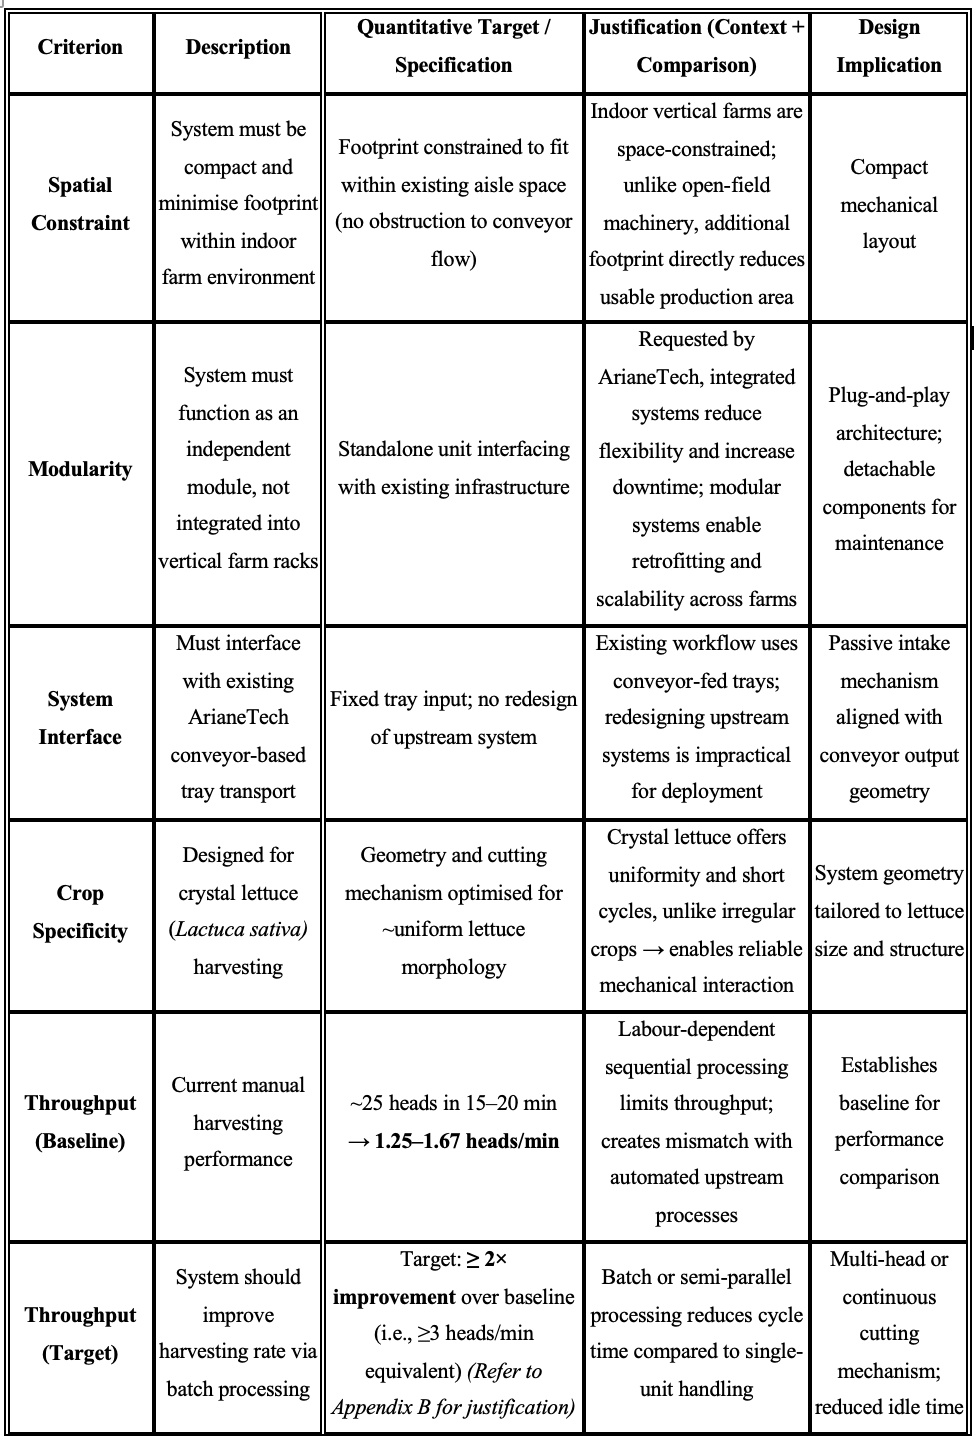
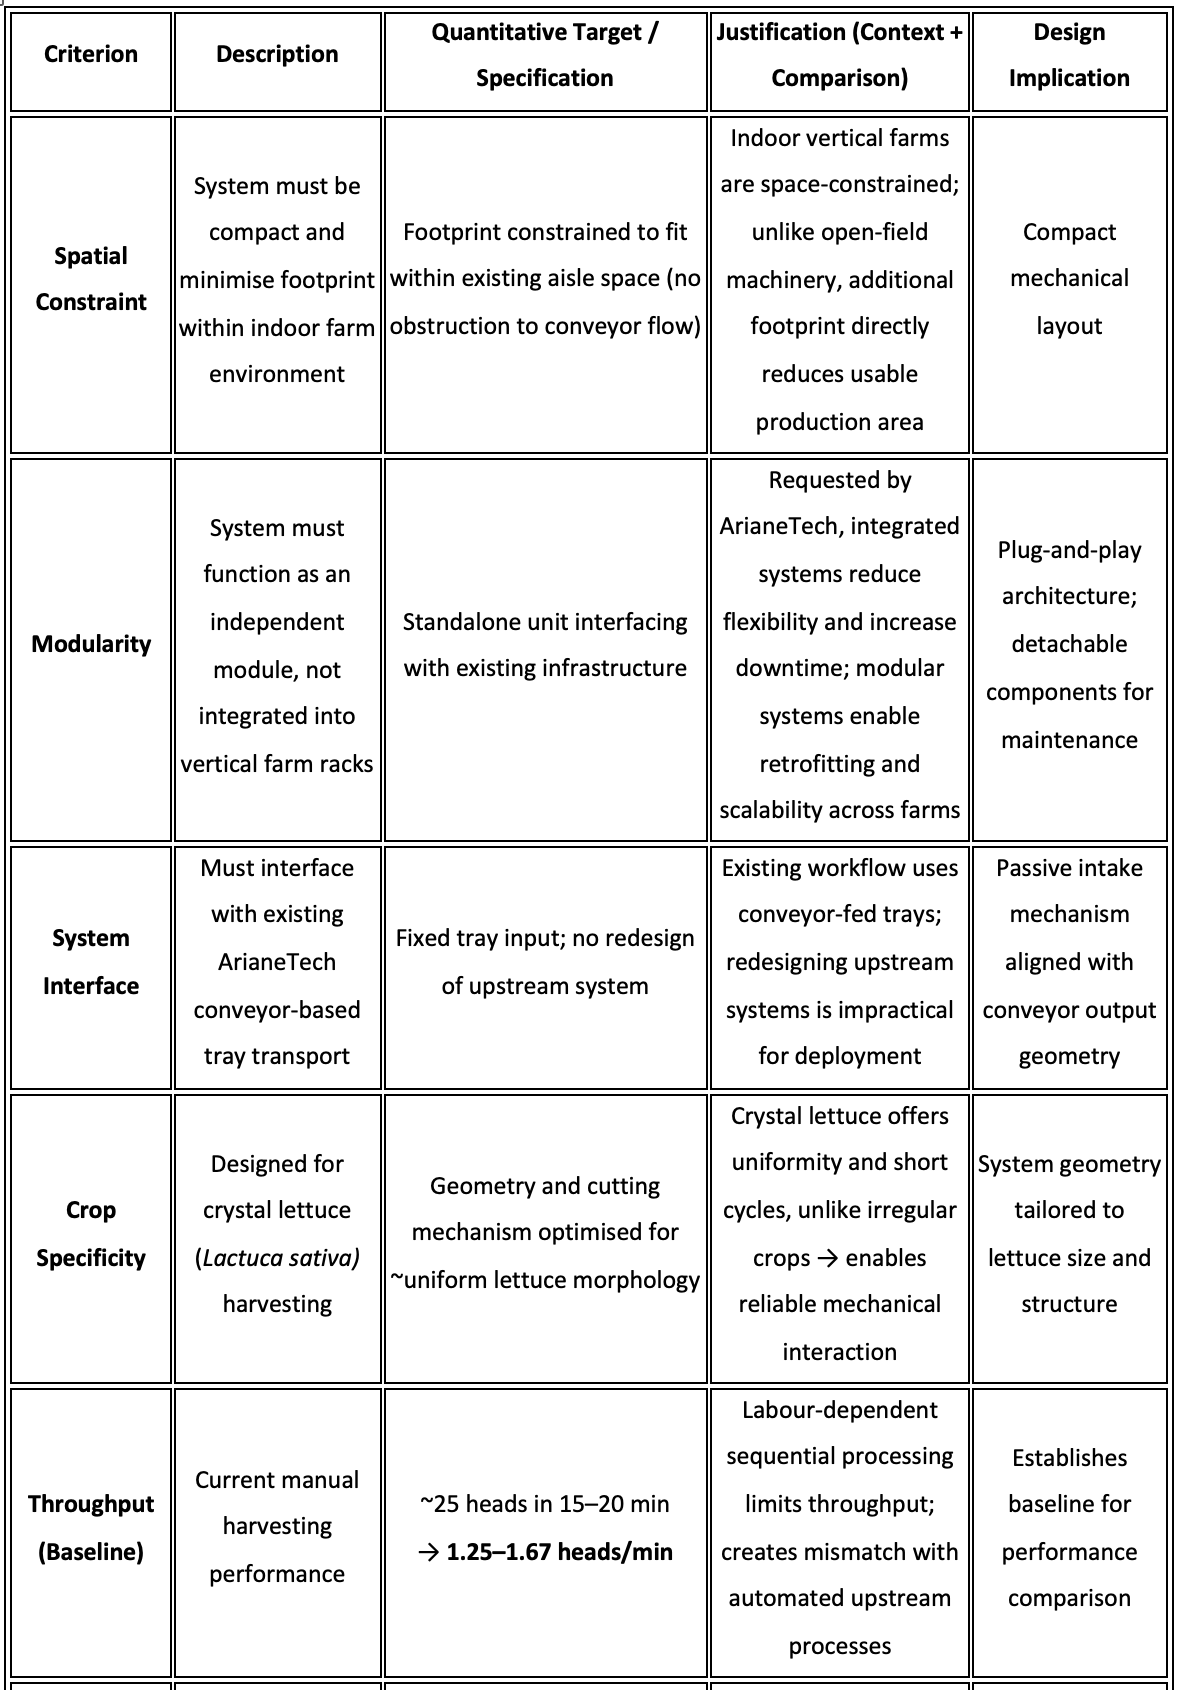
a

Changed region(s): [[0.0, 0.0, 1.0, 1.0]]

diff --git a/index.html b/index.html
@@ -278,13 +278,13 @@
 
         <image-component 
           tag="image" 
-          source="assets/design_estimates_table_pt1.jpg"
+          source="assets/design_estimates_table_pt1.png"
           subtitle=""
         ></image-component>
 
         <image-component 
           tag="image" 
-          source="assets/design_estimates_table_pt2.jpg"
+          source="assets/design_estimates_table_pt2.png"
           subtitle="Table 1: Design Estimates"
         ></image-component>
 
